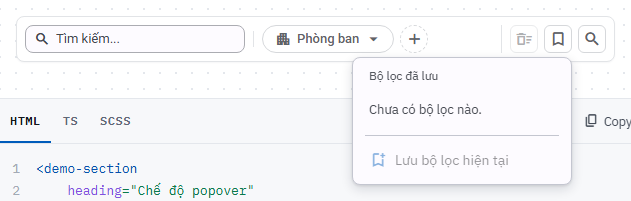
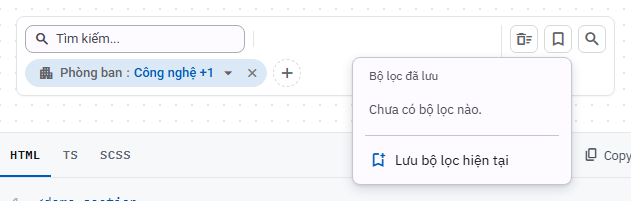
docs(handoff): quyết định sau review và ảnh chụp lại của demo popover
- STEP0.md ghi quyết định cho các mục cần PD chốt của R1 / R2.
- Chụp lại mục 01, 02, 03, 05 (chip Phòng ban có giá trị); thêm light-02-chip-popover-on-open
  (tooltip của sd-select khi chip popover vừa mở).

diff --git a/.sdcorejs/handoff/design-query-bar-panels/STEP0.md b/.sdcorejs/handoff/design-query-bar-panels/STEP0.md
@@ -40,3 +40,21 @@ Spec sửa vì selector mat-menu: `query-bar.component.spec.ts`, `chip-popover.c
 - `applyOn: 'commit'`: mỗi lần đóng là một lần apply → commit đúng một lần cho Esc, bấm ngoài, Tab ra, `closeMenu`, đổi panel, destroy; đổi chip A → B: A commit trước khi seed B.
 - Overlay con trong chip popover (`sd-operator` mat-menu, panel `sd-select`, mat-datepicker): click và focus trong đó không được coi là ra ngoài.
 - Không còn backdrop trong suốt của mat-menu: click ra ngoài đi thẳng tới phần tử bên dưới (đúng spec 2.2) — ghi CHANGELOG.
+
+## Quyết định sau review (10/11/2026)
+
+Người dùng chốt các mục "Cần PD chốt" của R1 và R2 ("từ 10 trường trở lên mới hiển thị ô tìm kiếm, còn lại áp dụng theo đề xuất").
+
+| Mục | Quyết định | Làm ở |
+| --- | --- | --- |
+| R1 G-2 ngưỡng ô tìm của field picker | Từ 10 field trở lên (trước: hơn 8) | PR này, `QB-B-04` |
+| R1 G-8 tên listbox / placeholder ô tìm | Ô tìm ghi "Tìm kiếm" (giá trị mới của key `find-field` ở 5 locale, không đổi tên key); listbox lấy tên của phần tử mở nó: `add-filter` (popover), `add-condition` (inline) | PR này, `QB-B-05` |
+| R1 G-9 chip popover trên màn hình thấp | Khung giữ `overflow: hidden`, thân cuộn, header đứng yên | PR này, `QB-B-06` |
+| R2 G-4 viền focus trên mục đang trỏ | Giữ nền 8% cộng viền 2px | Không đổi |
+| R1 G-1 nút bộ lọc đã lưu ở comfortable | Giữ 28×28 như `main` | Không đổi |
+| R2 N-2 `aria-describedby` của dòng `required-min-one` | Chấp nhận gắn lên nhóm giá trị (popover) / chip (inline) | Không đổi |
+| R1 G-3 con của `role="menu"` | Chạy axe trên panel trước, chỉ đổi cấu trúc khi axe báo | Kết quả ở mô tả PR |
+| R1 G-4 nút × lồng trong chip popover-mode | Có từ `main`, để việc riêng | Ngoài PR |
+| R2 G-10 `clearAll()` không phát `apply` ở `applyOn: 'commit'` | Sửa ở PR riêng (đổi hành vi ngoài spec) | Ngoài PR |
+| R2 G-5 QB-E-04 | Đi bằng phím Tab thật | PR này |
+| R2 G-6 dữ liệu demo popover | Filter khởi tạo dùng `data` | PR này |
